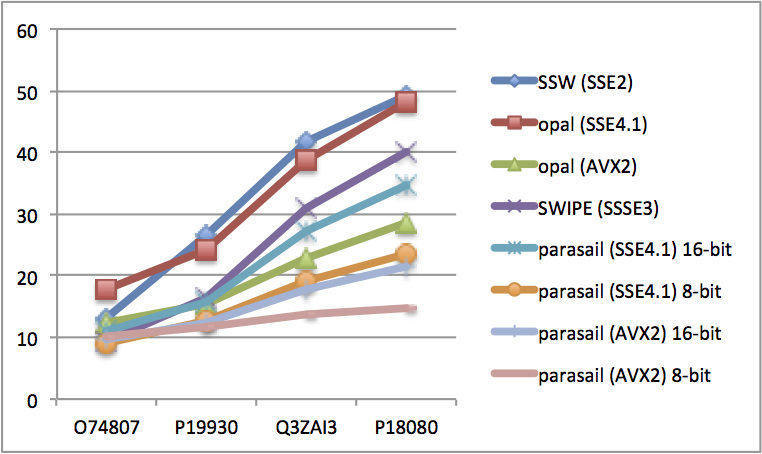
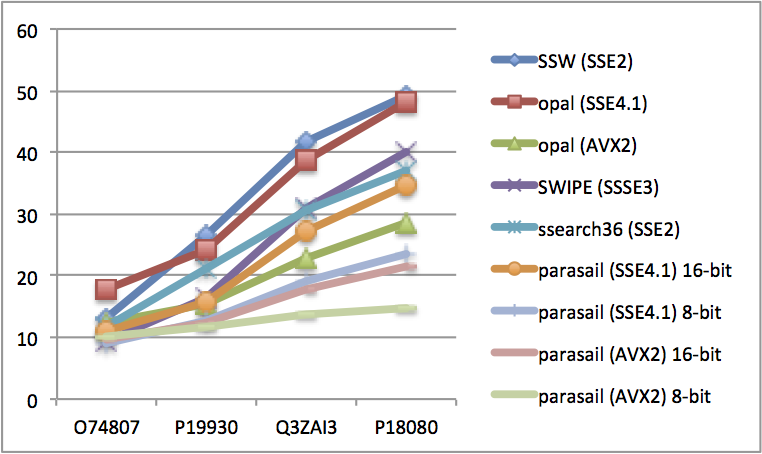
add ssearch comparison to performance

Changed region(s): [[0.6339, 0.0925, 0.9659, 0.8943], [0.1207, 0.3392, 0.5735, 0.8018]]

diff --git a/performance.md b/performance.md
@@ -5,16 +5,17 @@ document in the OpAl software package. See
 https://github.com/Martinsos/opal/blob/master/aligner_comparison.md for
 the original. **
 
-Here are described results of speed comparison of parasail with other
-aligners: SSW, OpAl, and SWIPE.  SSW and SWIPE do only Smith-Waterman
-alignment so we compared only for SW.
+The following presents results of speed comparisons of parasail with
+other aligners: SSW, ssearch (FASTA), OpAl, and SWIPE.  Since SSW and
+SWIPE only do Smith-Waterman alignment, we compared all software only
+for SW.
 
 Aligners were tested by quering sequences against UniProtKB/Swiss-Prot
-database (contains 547964 sequences).  Database can be obtained from
-www.uniprot.org/downloads -> UniProtKB/Swiss-Prot.  
+database (containing 547964 sequences).  The database can be obtained
+from www.uniprot.org/downloads -> UniProtKB/Swiss-Prot.  
 
-Specific sequence can also be obtained from www.uniprot.org by searching
-it by name (Search tab).
+Specific sequences can also be obtained from www.uniprot.org by
+searching for them by name (Search tab).
 
 All aligners were tested with following parameters:
 * number of threads = 1
@@ -22,16 +23,29 @@ All aligners were tested with following parameters:
 * gap extension = 1
 * score matrix = BLOSUM50
 
-Only scores were calculated (not alignments). Time spent to read
-sequences and database was not measured. In the case of SSW, output was
+Only scores were calculated (not alignments). Time spent to read query
+and database sequences was not measured. In the case of SSW, output was
 programmatically suppressed to avoid its effect on alignment timing.
+
+Links to the software used:
+* SSW: https://github.com/mengyao/Complete-Striped-Smith-Waterman-Library
+* OpAl: https://github.com/Martinsos/opal
+* SWIPE: https://github.com/torognes/swipe
+* ssearch: http://faculty.virginia.edu/wrpearson/fasta/fasta36/fasta-36.3.7b.tar.gz
 
 How aligners were called:
 * SSW: `./ssw_test -p uniprot_sprot.fasta <query_file>`
 * OpAl: `./opal_aligner -s <query_file> uniprot_sprot.fasta`
-* SWIPE: `./swipe -a 1 -p 1 -G 3 -E 1 -M BLOSUM50 -b 0 -i <query_file> -d uniprot_sprot` NOTE: database had to be preprocessed for SWIPE using _makeblastdb_
-* parasail(16-bit): `parasail_aligner -x -t 1 -a sw_striped_profile_16 -o 3 -e 1 -m blosum50 -f uniprot_sprot -q <query_file>`
-* parasail(8-bit): `parasail_aligner -x -t 1 -a sw_striped_profile_8 -o 3 -e 1 -m blosum50 -f uniprot_sprot -q <query_file>`
+* SWIPE: `./swipe -a 1 -p 1 -G 3 -E 1 -M BLOSUM50 -b 0 -i <query_file> -d uniprot_sprot`
+  * NOTE: database had to be preprocessed for SWIPE using _makeblastdb_
+* ssearch: `./ssearch36 -d 0 -T 1 -p -f -3 -g -1 -s BL50 <query_file> uniprot_sprot.fasta`
+* parasail: `parasail_aligner -x -t 1 -a <function> -o 3 -e 1 -m blosum50 -f uniprot_sprot -q <query_file>`
+  * SSE2, 16-bit: -a sw_striped_profile_sse2_128_16
+  * SSE2, 8-bit: -a sw_striped_profile_sse2_128_8
+  * SSE4.1, 16-bit: -a sw_striped_profile_sse41_128_16
+  * SSE4.1, 8-bit: -a sw_striped_profile_sse41_128_8
+  * AVX2, 16-bit: -a sw_striped_profile_avx2_256_16
+  * AVX2, 8-bit: -a sw_striped_profile_avx2_256_8
 
 Following tables show how much time took for different sequences to be
 aligned against UniProtKB/Swiss-Prot database. All times are in seconds. The times are an average of three runs.
@@ -43,10 +57,11 @@ RAM (SSE4.1 support). The compiler was Apple LLVM version 6.0 (clang-600.0.57.
 |-------------------------------|--------|--------|--------|------|
 | **query length**              |110     |195     |390     |513   |
 | **SSW(SSE2)**                 |14.9    |22.7    |44.4    |54.4  |
-| **_parasail(SSE2) 16-bit_**   |10.6    |15.4    |24.3    |31.7  |
-| **_parasail(SSE2) 8-bit\*_**  |16.7    |24.8    |39.4    |47.8  |
+| **ssearch36 (SSE2)            |12.9    |20.4    |29.6    |38.1  |
 | **OpAl(SSE4.1)**              |15.2    |21.5    |35.9    |44.6  |
 | **SWIPE(SSSE3)**              |7.68    |13.3    |24.7    |32.0  |
+| **_parasail(SSE2) 16-bit_**   |10.6    |15.4    |24.3    |31.7  |
+| **_parasail(SSE2) 8-bit\*_**  |16.7    |24.8    |39.4    |47.8  |
 | **_parasail(SSE4.1) 16-bit_** |10.7    |15.2    |24.8    |30.5  |
 | **_parasail(SSE4.1) 8-bit_**  |9.9     |13.7    |20.0    |23.7  |
 
@@ -64,6 +79,7 @@ at 2.3 Ghz with 64 GB 2133 Mhz DDR4 memory. The compiler used was Intel ICC
 |-------------------------------|--------|--------|--------|------|
 | **query length**              |110     |195     |390     |513   |
 | **SSW(SSE2)**                 |13.1    |26.3    |41.8    |49.0  |
+| **ssearch36(SSE2)             |11.7    |21.1    |30.6    |37.1  |
 | **OpAl(SSE4.1)**              |17.8    |24.2    |38.9    |48.1  |
 | **OpAl(AVX2)**                |12.2    |15.4    |22.8    |28.4  |
 | **SWIPE(SSSE3)**              |9.3     |16.4    |30.8    |39.9  |
